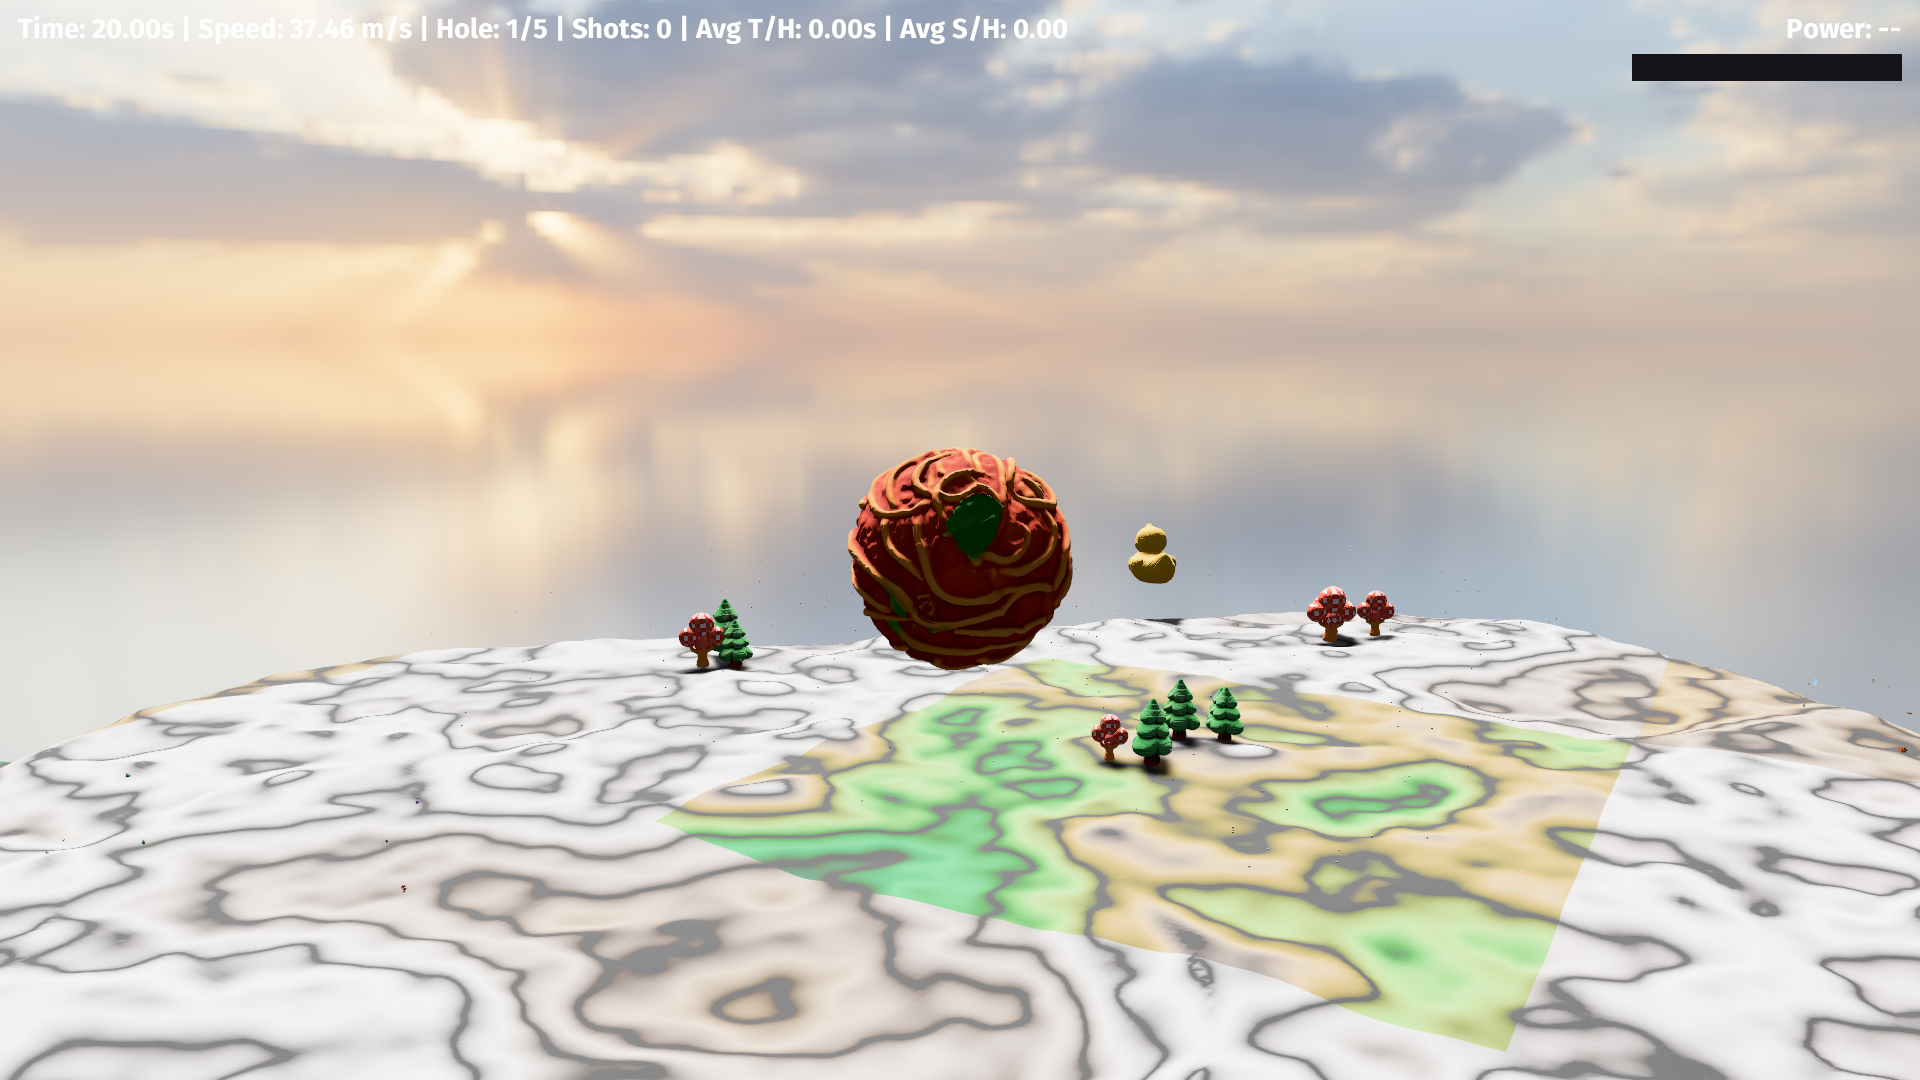
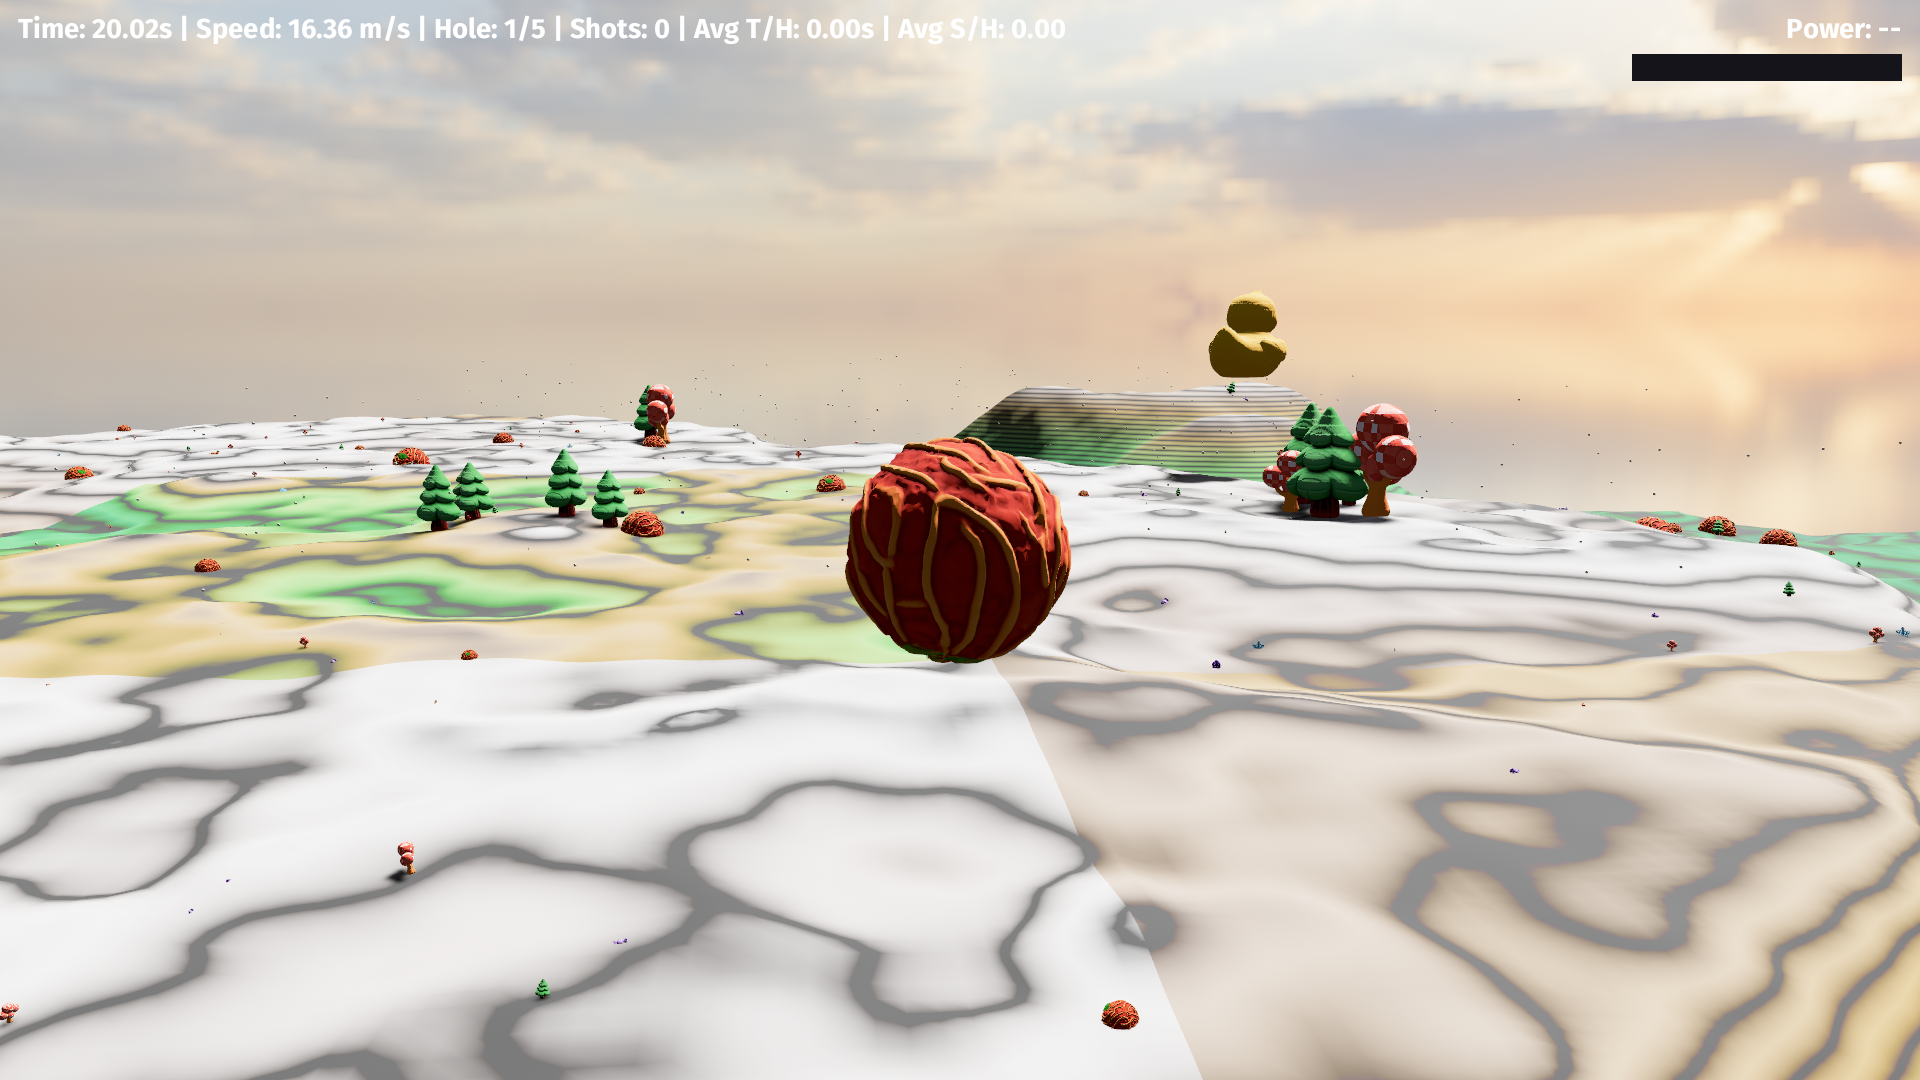
working on landscape/trees still

diff --git a/src/plugins/terrain.rs b/src/plugins/terrain.rs
@@ -284,14 +284,17 @@ fn populate_chunk_vegetation(
                 attempts += 1;
                 let rx: f32 = random();
                 let rz: f32 = random();
-                let x = base.x + rx * cfg.chunk_size;
-                let z = base.z + rz * cfg.chunk_size;
-                let h = sampler.height(x, z);
-                let n = sampler.normal(x, z);
+                // Compute local (chunk‑relative) and world positions separately.
+                let local_x = rx * cfg.chunk_size;
+                let local_z = rz * cfg.chunk_size;
+                let world_x = base.x + local_x;
+                let world_z = base.z + local_z;
+                let h = sampler.height(world_x, world_z);
+                let n = sampler.normal(world_x, world_z);
                 if n.y < 0.60 { // avoid steeper slopes
                     continue;
                 }
-                let macro_v = sampler.macro_value(x, z);
+                let macro_v = sampler.macro_value(world_x, world_z);
                 // Compute valley & mountain factors
                 let m_start = cfg.mountain_start;
                 let m_end = cfg.mountain_end;
@@ -320,7 +323,8 @@ fn populate_chunk_vegetation(
                 c.spawn((
                     SceneBundle {
                         scene: assets.load(model),
-                        transform: Transform::from_xyz(x, h, z)
+                        // Use chunk‑local translation so parenting does NOT double-apply chunk origin.
+                        transform: Transform::from_xyz(local_x, h, local_z)
                             .with_scale(Vec3::splat(scale))
                             .with_rotation(Quat::from_rotation_y(random::<f32>() * std::f32::consts::TAU)),
                         ..default()
@@ -335,14 +339,19 @@ fn populate_chunk_vegetation(
 
 fn align_vegetation(
     sampler: Res<TerrainSampler>,
-    mut q_added: Query<&mut Transform, (With<VegetationInstance>, Added<VegetationInstance>)>,
+    q_globals: Query<&GlobalTransform>,
+    mut q_added: Query<(&Parent, &mut Transform), (With<VegetationInstance>, Added<VegetationInstance>)>,
 ) {
-    for mut t in &mut q_added {
-        let x = t.translation.x;
-        let z = t.translation.z;
-        let h = sampler.height(x, z);
+    for (parent, mut t) in &mut q_added {
+        // Convert chunk-local (child) position to world for sampling.
+        let parent_gt = q_globals.get(parent.get()).ok();
+        let parent_pos = parent_gt.map(|g| g.translation()).unwrap_or(Vec3::ZERO);
+        let world_x = parent_pos.x + t.translation.x;
+        let world_z = parent_pos.z + t.translation.z;
+
+        let h = sampler.height(world_x, world_z);
         t.translation.y = h;
-        let n = sampler.normal(x, z);
+        let n = sampler.normal(world_x, world_z);
 
         // Limit tilt for stylization (max ~17 degrees)
         let max_tilt = 0.30_f32;
